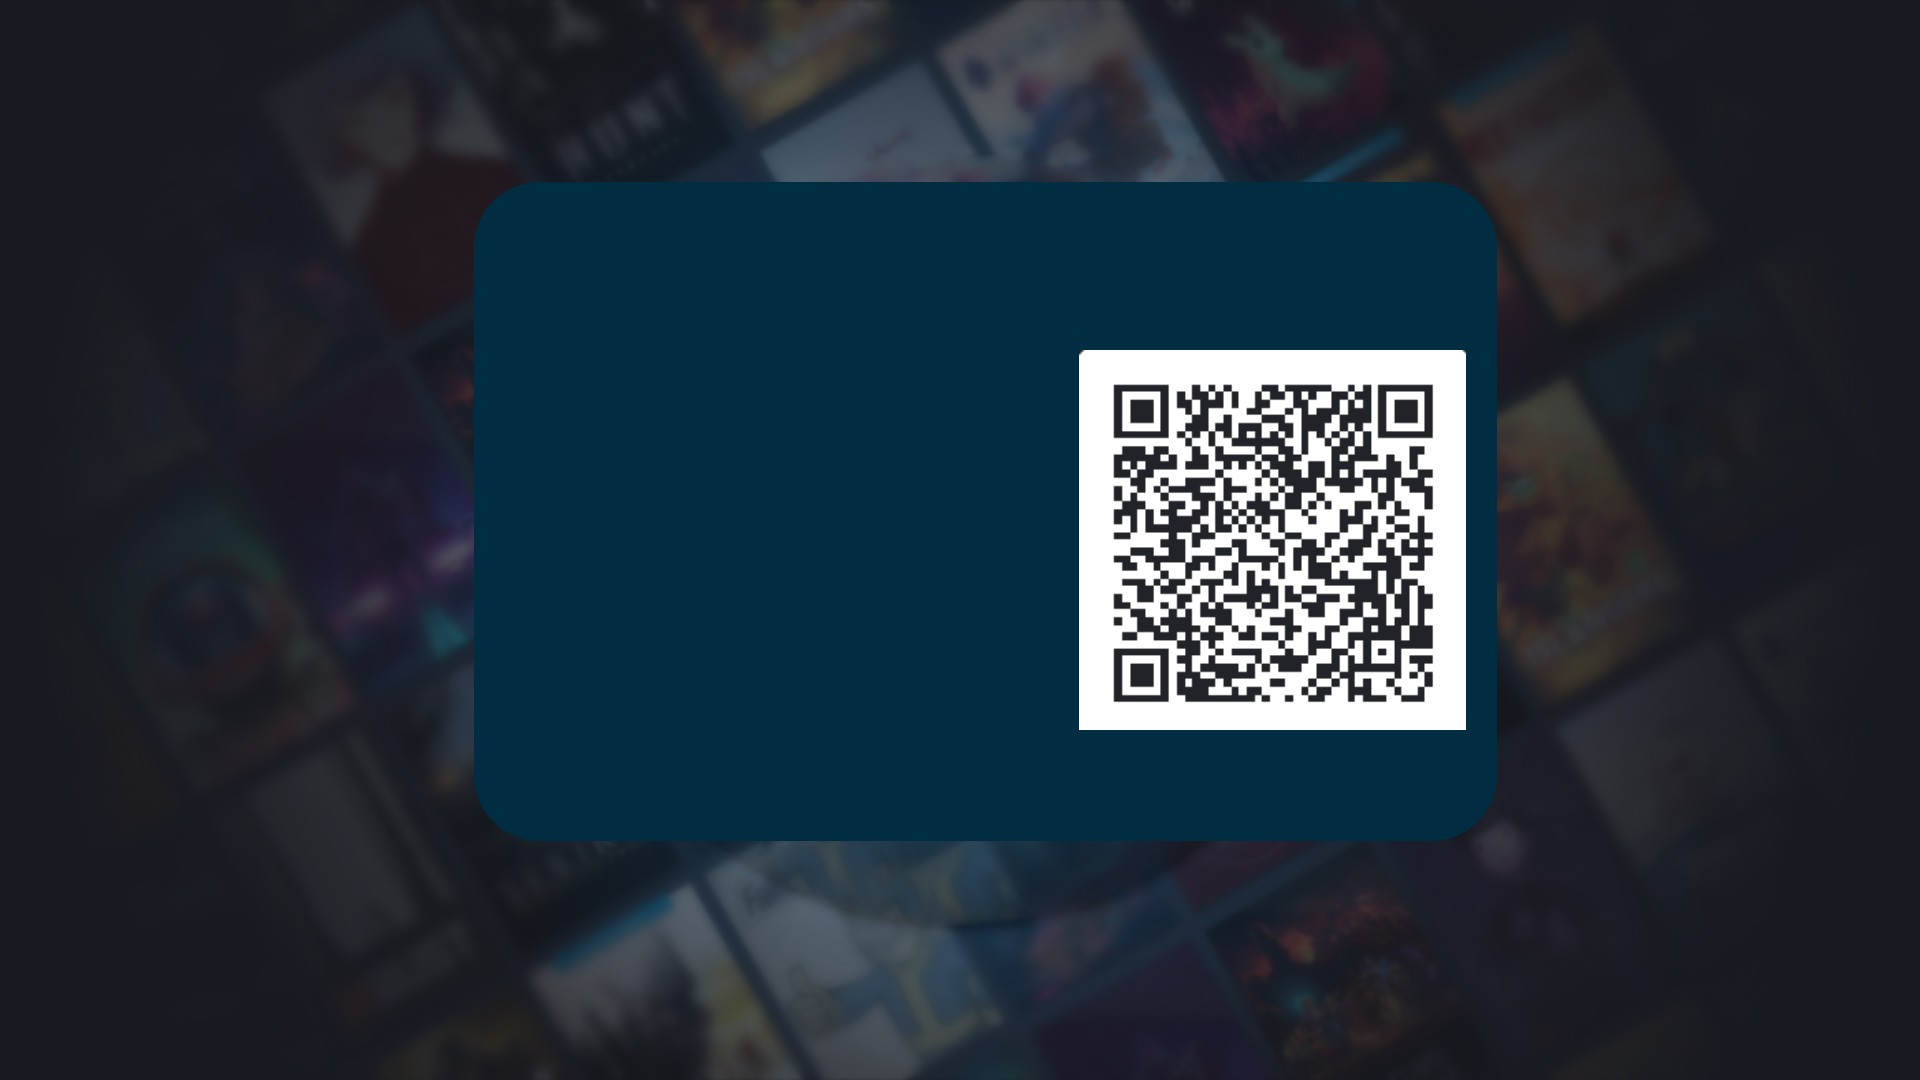
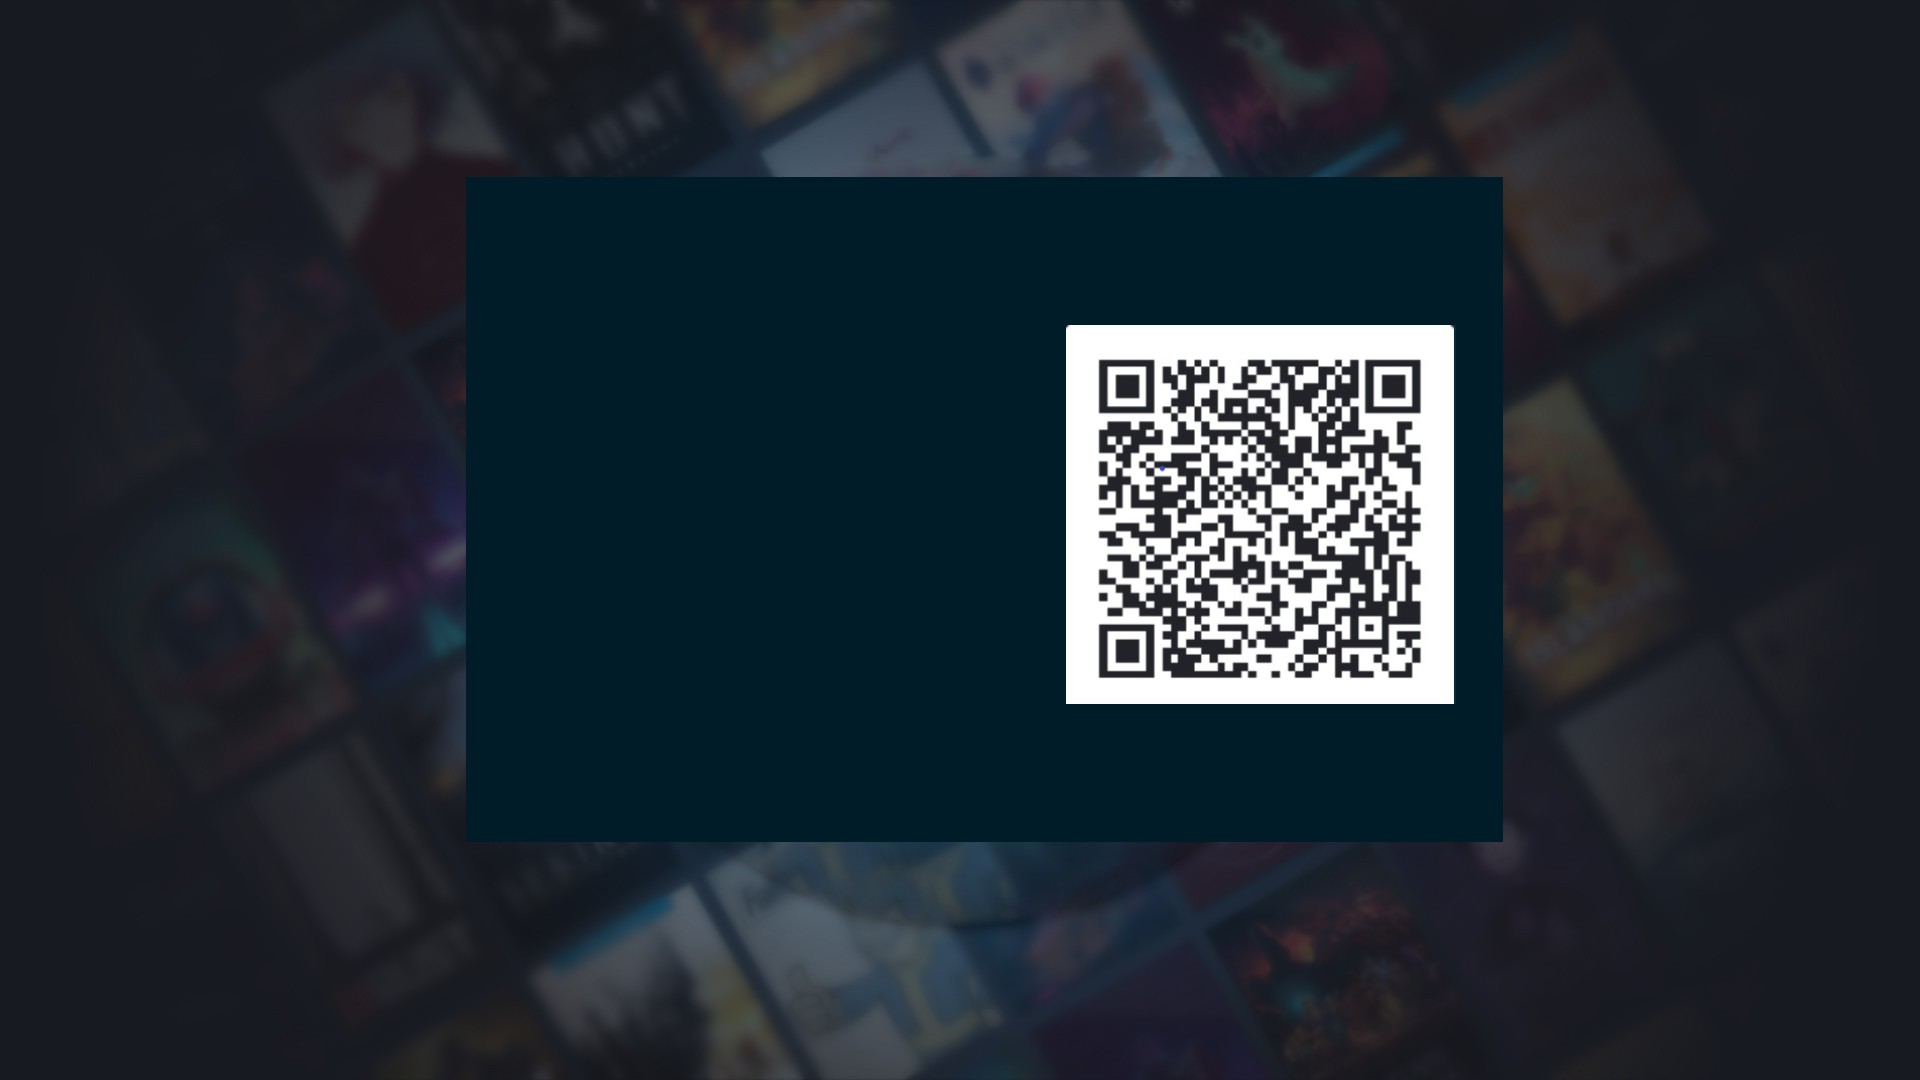
Modified login page setup and interface

Changed region(s): [[0.2188, 0.1528, 0.7812, 0.7944]]

diff --git a/dbproject/frontend/src/App.js b/dbproject/frontend/src/App.js
@@ -1324,6 +1324,10 @@ function Login() {
   return (
     <div
       style={{
+        display: 'flex', // Use Flexbox for centering
+        flexDirection: 'column', // Stack elements vertically
+        alignItems: 'center', // Center elements horizontally
+        justifyContent: 'center',
         textAlign: 'left',
         minHeight: '94.5vh', // Ensures the background covers the full viewport height
         backgroundImage: 'url("/loginpage.jpg")', // Replace with your image path
@@ -1338,19 +1342,73 @@ function Login() {
       <h1
         style={{
           position: 'absolute', // Allows precise positioning
-          top: '90px', // y-coordinate
-          left: '600px', // x-coordinate
+          top: '55px', // y-coordinate
+          left: '620px', // x-coordinate
           fontSize: '34px',
           fontWeight: 'bold',
         }}
       >
-        Welcome to, Kattuti
+        Welcome to GameStrife
       </h1>
+      <h2
+        style={{
+          position: 'absolute', // Allows precise positioning
+          top: '130px', // y-coordinate
+          left: '922px', // x-coordinate
+          fontSize: '24px',
+          fontWeight: 'bold',
+          color: 'rgb(25, 153, 255)', // Ensures text is visible on the background
+        }}
+      >
+        Or Scan With QR Code  
+
+      </h2>
+      <p
+        style={{
+         position: 'absolute', // Allows precise positioning
+         top: '500px', // Adjust y-coordinate to position below the loginMessage
+         left: '514px', // Adjust x-coordinate to align with the form
+        transform: 'translate(0, 0)', // Fine-tune the position
+        fontSize: '18px',
+         color: 'grey', // Set the color of the additional text
+         textAlign: 'center', // Centers the text horizontally
+         textDecoration: 'underline', // Makes the text bold
+        }}
+      >
+  Don't have an account? Sign up now!
+</p>
+<p
+        style={{
+         position: 'absolute', // Allows precise positioning
+         top: '490px', // Adjust y-coordinate to position below the loginMessage
+         left: '892px', // Adjust x-coordinate to align with the form
+        transform: 'translate(0, 0)', // Fine-tune the position
+        fontSize: '18px',
+         color: 'grey', // Set the color of the additional text
+         textAlign: 'center', // Centers the text horizontally
+         textDecoration: 'underline', // Makes the text bold
+        }}
+      >
+  Use the mobile app to scan the QR code
+</p>
+      <h3
+      style={{
+        position: 'absolute', // Allows precise positioning
+        top: '130px', // y-coordinate
+        left: '500px', // x-coordinate
+        fontSize: '26px',
+        fontWeight: 'bold',
+        color: 'rgb(25, 153, 255)', // Ensures text is visible on the background
+
+      }}
+    >
+      Log In
+      </h3>
       <form
         onSubmit={handleLogin}
         style={{
           position: 'absolute', // Allows precise positioning
-          top: '250px', // y-coordinate
+          top: '230px', // y-coordinate
           left: '500px', // x-coordinate
           transform: 'translate(0, 0)', // Fine-tune the position
         }}
@@ -1363,7 +1421,7 @@ function Login() {
               marginBottom: '10px',
             }}
           >
-            Username:
+            Sign In with Username
           </label>
           <input
             type="text"
@@ -1387,7 +1445,7 @@ function Login() {
               marginBottom: '5px',
             }}
           >
-            Password:
+            Password
           </label>
           <input
             type={showPassword ? "text" : "password"} // Toggle input type
@@ -1426,35 +1484,51 @@ function Login() {
           type="submit"
           style={{
             position: 'absolute', // Allows precise positioning
-            top: '220px', // y-coordinate
+            top: '210px', // y-coordinate
             left: '10px', // x-coordinate
             transform: 'translate(0, 0)', // Fine-tune the position
             padding: '12px 40px',
             fontSize: '16px',
             cursor: 'pointer',
-            backgroundColor: 'green',
+            backgroundColor:" rgb(25, 153, 255)",
             color: 'White',
             border: 'none',
             borderRadius: '5px',
           }}
-        >
+          onMouseOver={(e) => {
+            e.currentTarget.style.boxShadow = '0 0 5px 5px rgba(25, 153, 255, 0.2)'; // Add glow effect
+            e.currentTarget.style.transform = 'scale(1)'; // Slightly enlarge the button
+          }}
+          onMouseOut={(e) => {
+            e.currentTarget.style.boxShadow = 'none'; // Remove glow effect
+            e.currentTarget.style.transform = 'scale(1)'; // Reset button size
+          }}
+        > 
           Login
         </button>
         <button
         type="button"
         style={{
           position: 'absolute',
-          top: '220px', // y-coordinate for Sign Up button (below Login button)
+          top: '210px', // y-coordinate for Sign Up button (below Login button)
           left: '180px', // x-coordinate (aligned with Login button)
           transform: 'translate(0, 0)',
           padding: '12px 38px',
           fontSize: '16px',
           cursor: 'pointer',
-          backgroundColor: 'green', // Different color for Sign Up button
+          backgroundColor:" rgb(25, 153, 255)",
           color: 'white',
           border: 'none',
           whiteSpace: 'nowrap',
           borderRadius: '5px',
+        }}
+        onMouseOver={(e) => {
+          e.currentTarget.style.boxShadow = '0 0 5px 5px rgba(25, 153, 255, 0.2)'; // Add glow effect
+          e.currentTarget.style.transform = 'scale(1)'; // Slightly enlarge the button
+        }}
+        onMouseOut={(e) => {
+          e.currentTarget.style.boxShadow = 'none'; // Remove glow effect
+          e.currentTarget.style.transform = 'scale(1)'; // Reset button size
         }}
         onClick={() => navigate('/signup')}      >
         Sign Up
@@ -1465,15 +1539,16 @@ function Login() {
     style={{
       position: 'absolute', // Allows precise positioning
       top: '540px', // Adjust y-coordinate to position below the buttons
-      left: '700px', // Adjust x-coordinate to align with the form
+      left: '800px', // Adjust x-coordinate to align with the form
       transform: 'translate(0, 0)', // Fine-tune the position
       fontSize: '22px',
-      color: loginMessage.includes('successful') ? 'green' : 'red',
+      color: loginMessage.includes('successful') ? 'rgb(25, 153, 255)' : 'red',
       textAlign: 'center', // Centers the text horizontally
     }}
   >
     {loginMessage}
   </p>
+  
 )}
     </div>
   );
